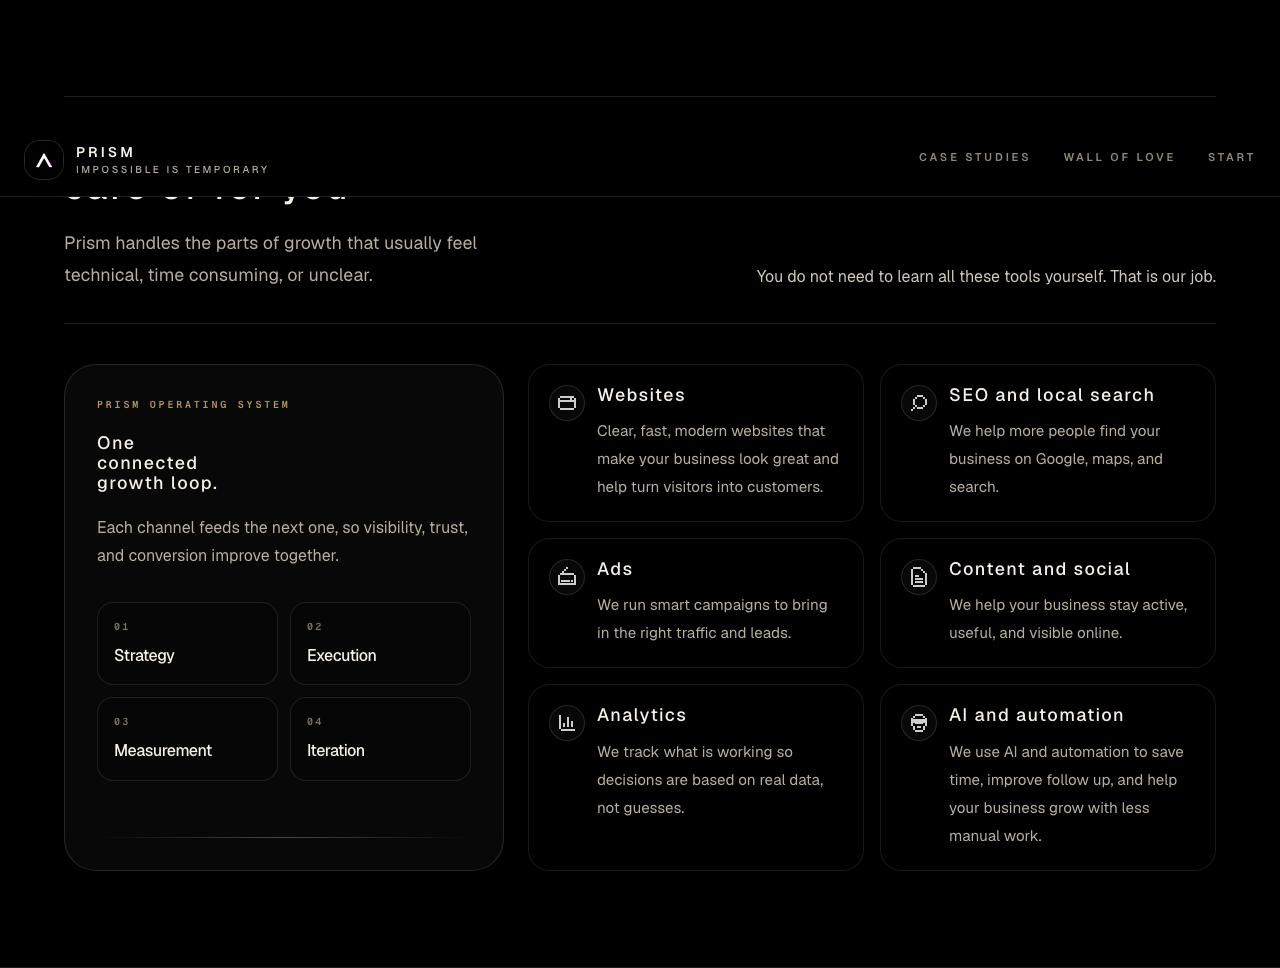
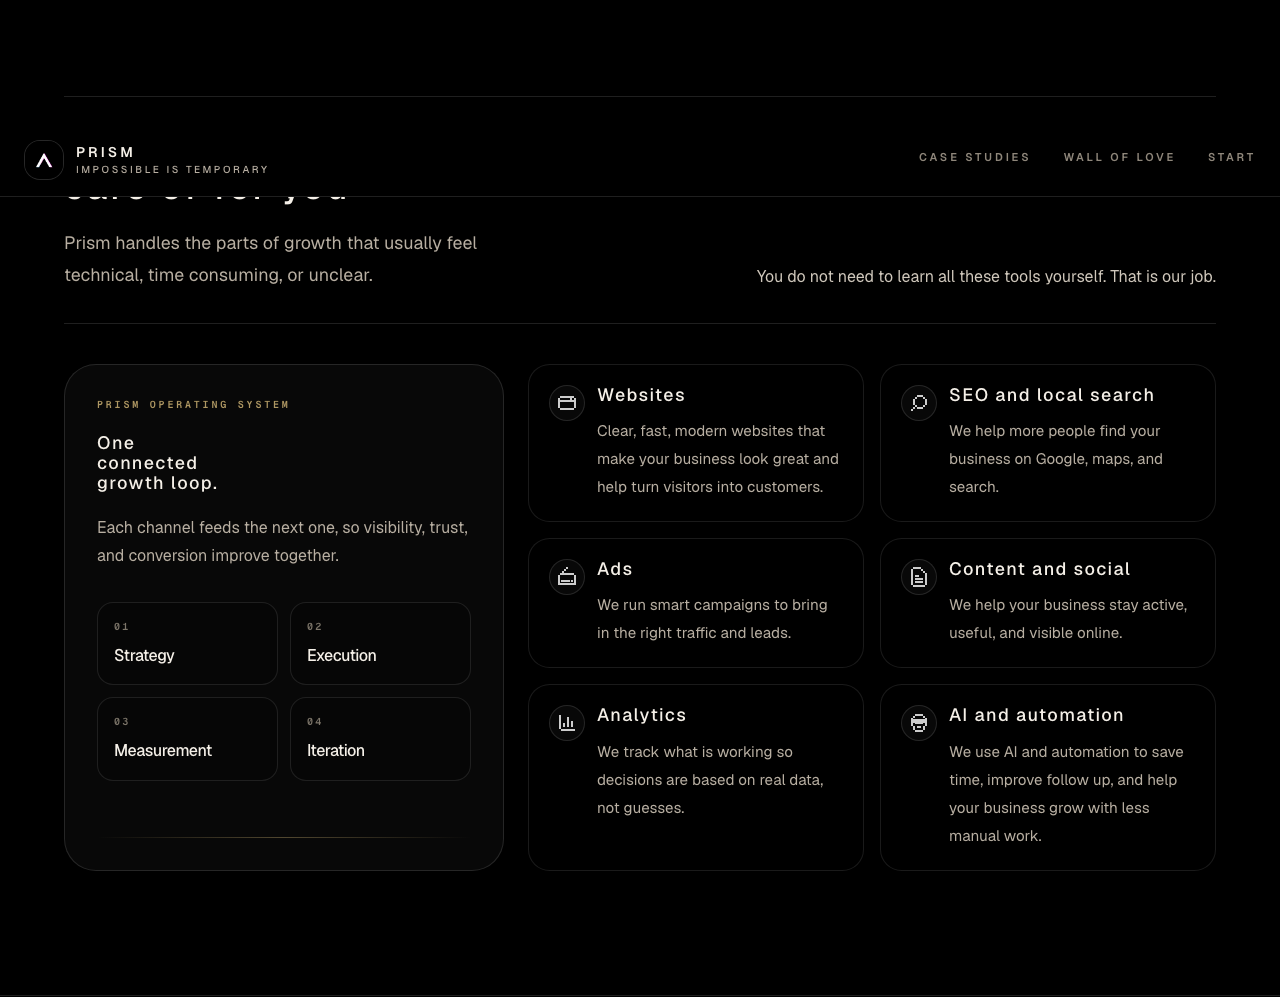
Stabilize locked visual baselines

diff --git a/__tests__/visual/locked-routes.spec.ts b/__tests__/visual/locked-routes.spec.ts
@@ -184,7 +184,7 @@ test('home services section snapshot stays stable', async ({ page }) => {
   const servicesSection = servicesHeading.locator('xpath=ancestor::section[1]')
   await expect(servicesSection).toBeVisible()
   await servicesSection.scrollIntoViewIfNeeded()
-  await stabilizeDesktopSectionHeight(page, servicesSection, 921)
+  await stabilizeDesktopSectionHeight(page, servicesSection, 996)
 
   await stabilizePage(page)
   await expectLockedRouteSnapshotSurface(page)